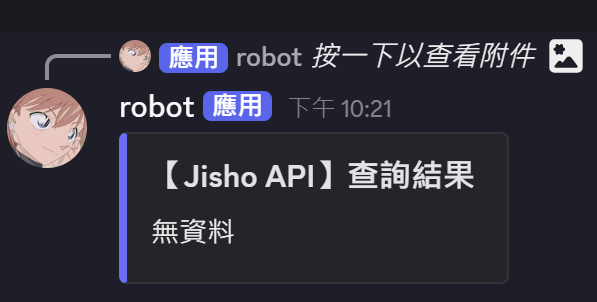
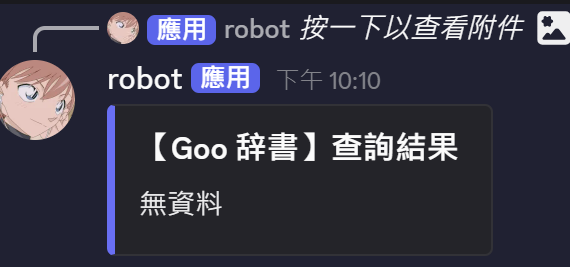
微修

Changed region(s): [[0.0, 0.03, 1.0, 0.9588], [0.2684, 0.4794, 0.8053, 0.6292]]

diff --git a/code/bot.py b/code/bot.py
@@ -6,7 +6,7 @@ import getpass
 import os
 from groq_help import start_groq
 from lookup_code.goo_crawler import crawl_word_full  # 爬蟲函式
-from lookup_code.Jishon import lookup_word  # Jisho API
+from lookup_code.Jisho import lookup_word  # Jisho API
 from lookup_code.lookup_groq import generate_japanese_lookup
 from lookup_code.lookup_base import lookup_word_full
 from lookup_code.ui.lookup_base_ui import LookupView

diff --git a/code/lookup_code/ui/lookup_base_ui.py b/code/lookup_code/ui/lookup_base_ui.py
@@ -53,7 +53,7 @@ class LookupView(discord.ui.View):
         embed = discord.Embed(title="【Goo 辞書】 查詢結果", color=0x686FFC)
         if not self.goo_result :
             embed = discord.Embed(
-            title=f"【Jisho API】查詢結果",
+            title=f"【Goo 辞書】查詢結果",
             description=(
                     "無資料"
                 ),

diff --git a/code/lookup_code/lookup_base.py b/code/lookup_code/lookup_base.py
@@ -1,7 +1,7 @@
 
 import asyncio
 from lookup_code.goo_crawler import crawl_word_full  # 爬蟲函式
-from lookup_code.Jishon import lookup_word  # Jisho API
+from lookup_code.Jisho import lookup_word  # Jisho API
 from lookup_code.lookup_groq import generate_japanese_lookup
 
 

diff --git a/README.md b/README.md
@@ -173,7 +173,7 @@
 
 ---
 
-### 📝 學習本功能 (`!notebook`)
+### 📝 學習本功能
 
 輸入 `！notebook` 會叫出學習本功能的詳細介紹。  
 每個用戶學習本為獨立儲存，以ID作為檔名。
@@ -221,7 +221,7 @@
 
 ---
 
-### 📝 學習本功能 (`!notebook`) - 新增單字
+### 📝 學習本功能 - 新增單字
 
 可自行增加想要的單字，由於Modal欄位限制，新增時僅可輸入`日文、中文、假名、例句1(日文)、筆記`，前三項為必輸入欄位。  
 點擊 `Add` 按鈕，輸入並提交後即會加入學習本。
@@ -233,7 +233,7 @@
 
 ---
 
-### 📝 學習本功能 (`!notebook`) - 刪除單字
+### 📝 學習本功能 - 刪除單字
 
 可自行刪除學習本中的單字。  
 點擊 `Delete` 按鈕， 輸入日文單字即回刪除。
@@ -246,7 +246,7 @@
 
 ---
 
-### 📝 學習本功能 (`!notebook`) - 顯示學習本內容
+### 📝 學習本功能 - 顯示學習本內容
 
 可看個人學習本內容，限制一頁顯示三個字。 可透過上/下一頁切換頁面。
 點擊 `Show` 按鈕即會顯示。
@@ -259,7 +259,7 @@
 
 ---
 
-### 📝 學習本功能 (`!notebook`) - 編輯學習本
+### 📝 學習本功能 - 編輯學習本
 
 可選擇特定單字及欄位進行修改。  
 點擊 `Edit` 按鈕，選擇單字(因選擇欄位上限僅有25個，故可透過上/下一頁選擇更多)。  
@@ -288,7 +288,7 @@
 </div>
 
 ---
-### 🎯 測驗功能 (`!quiz`)
+### 🎯 測驗功能
 輸入 `!quiz` 會跳出詳細功能說明，有中譯日和日譯中兩種模式。  
 且會更新已/未學狀態
 
@@ -325,7 +325,7 @@ def update_quiz_result(word_data, direction, correct):
 
 
 ---
-### 🎯 測驗功能 (`!quiz`) - 日譯中
+### 🎯 測驗功能 - 日譯中
 
 點擊 `日譯中` 按鈕後可選擇題數，上限為25題或自己學習本內之單字上限。  
 隨機出題(未學優先)，接著可選擇題目並回答。  
@@ -350,7 +350,7 @@ def update_quiz_result(word_data, direction, correct):
 </div>
 
 ---
-### 🎯 測驗功能 (`!quiz`) - 中譯日
+### 🎯 測驗功能 - 中譯日
 
 點擊 `日譯中` 按鈕後可選擇題數，上限為25題或自己學習本內之單字上限。  
 隨機出題(未學優先)，接著可選擇題目並回答。  
